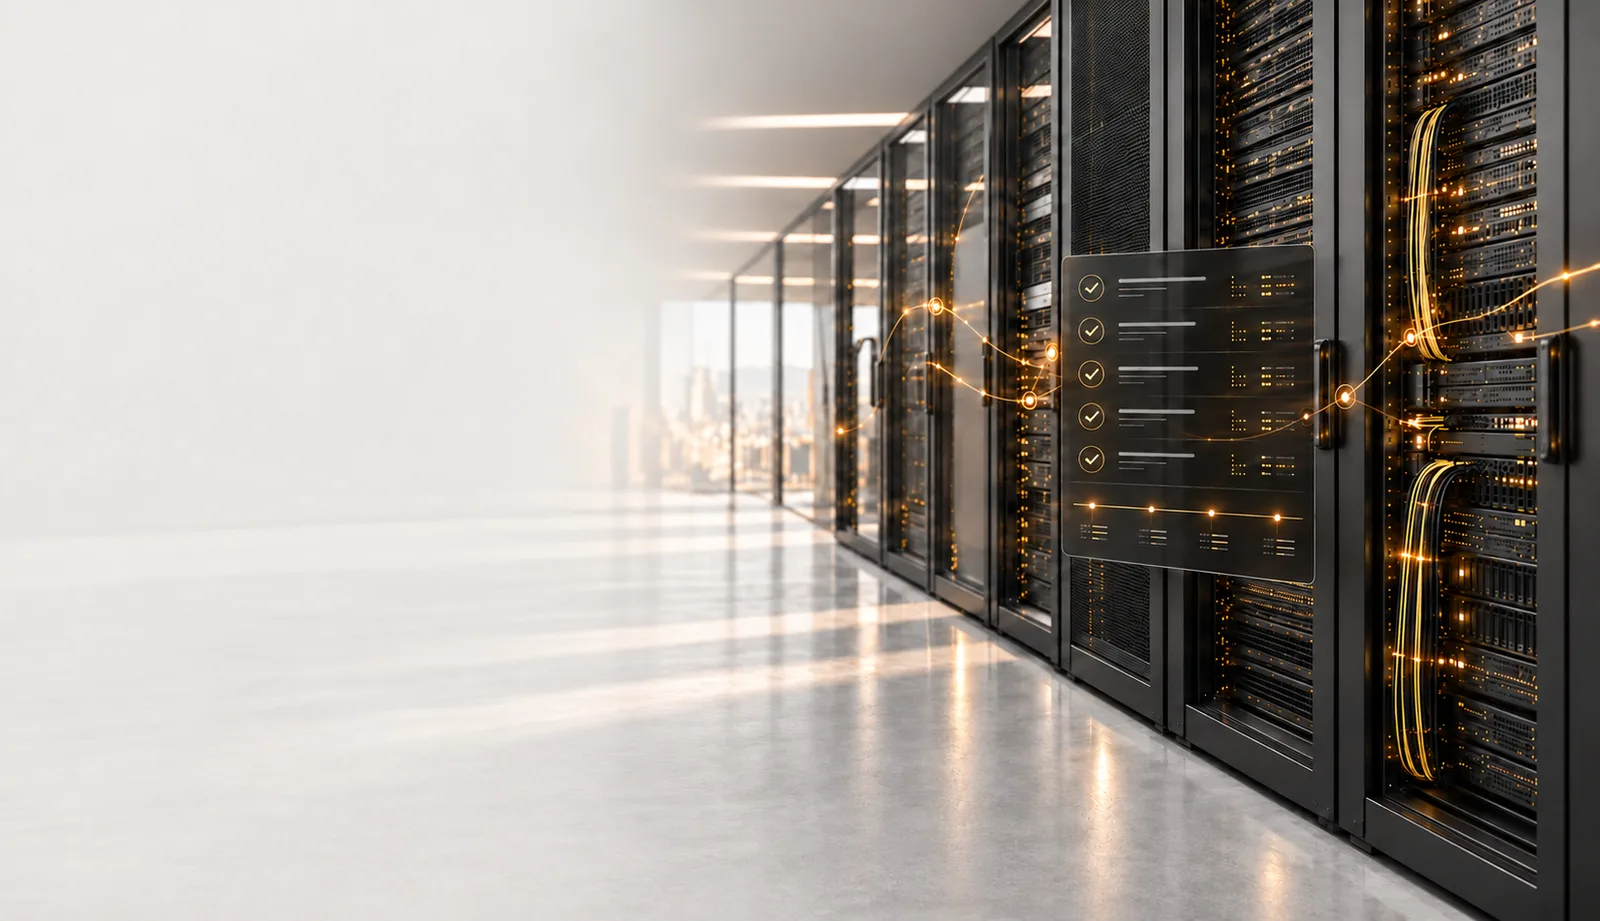
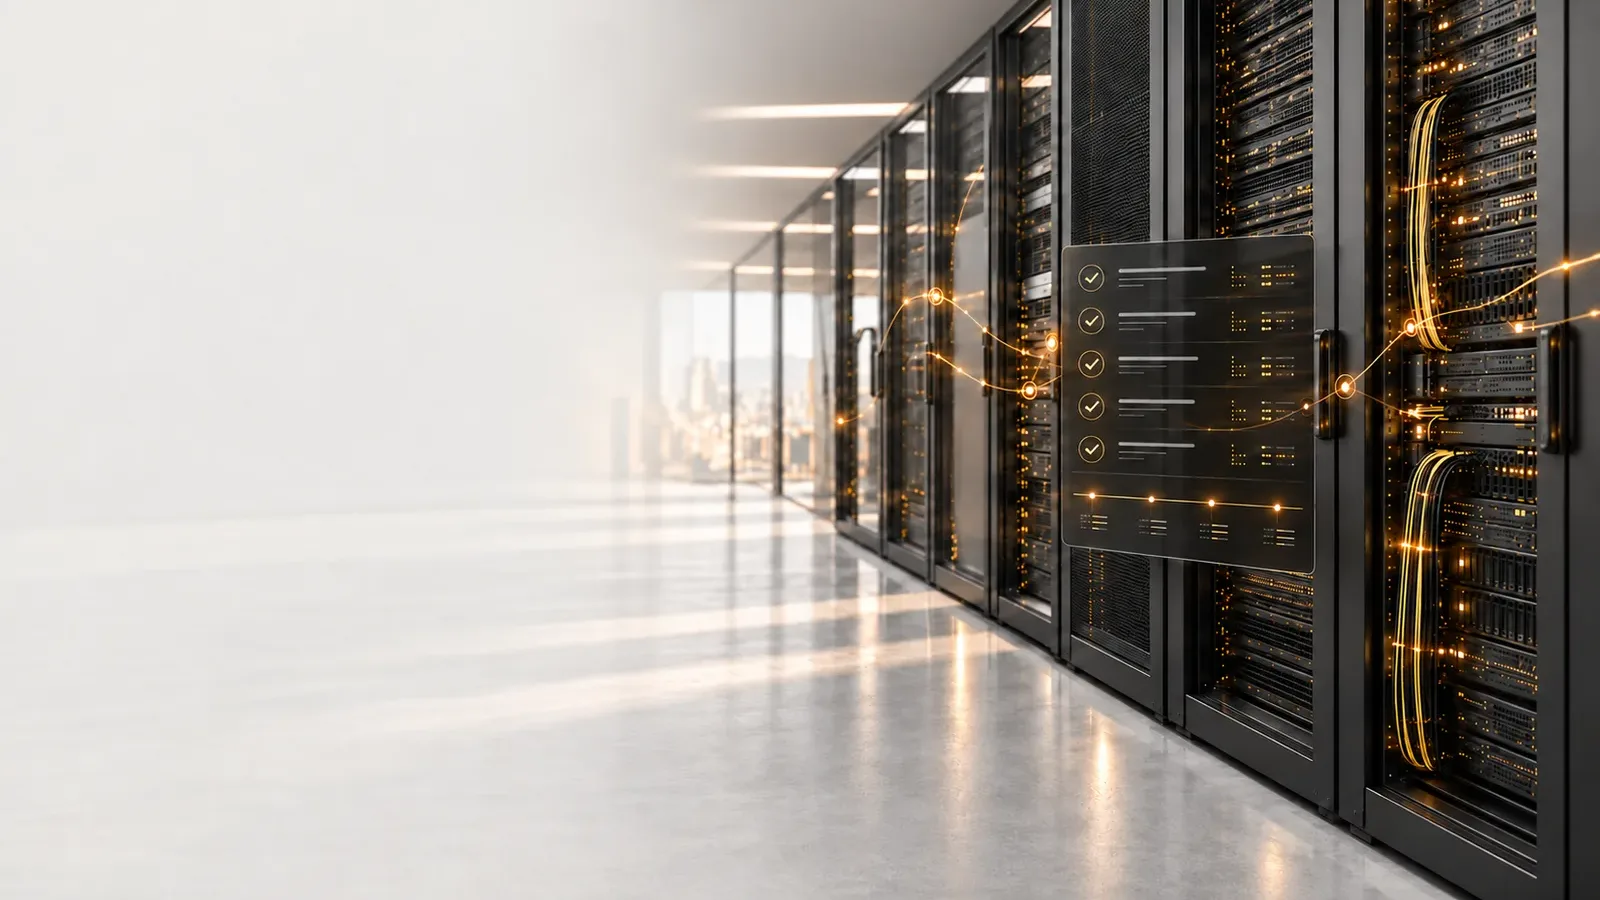
Bannières : même hauteur pour les deux diapositives, images au même format 16:9
Claude-Session: https://claude.ai/code/session_01WW9VHM8UZcUM3GTHM5HDM3

diff --git a/index.html b/index.html
@@ -32,9 +32,9 @@ nav{display:flex;justify-content:space-between;align-items:center;gap:24px;paddi
 
 /* BANNIÈRE — aucun lien, aucun bouton de navigation */
 .banner{position:relative;background:#f3f2ee;color:#111;overflow:hidden;border-bottom:1px solid var(--border)}
-.slide{display:none;position:relative;min-height:560px;background-size:cover;background-position:right center;background-repeat:no-repeat}
-.slide.is-active{display:block;animation:fade .6s ease}
-@keyframes fade{from{opacity:0}to{opacity:1}}
+.banner{display:grid}
+.slide{grid-area:1/1;visibility:hidden;opacity:0;transition:opacity .6s ease;position:relative;min-height:560px;background-size:cover;background-position:right center;background-repeat:no-repeat}
+.slide.is-active{visibility:visible;opacity:1}
 .slide-inner{max-width:var(--max);margin:0 auto;padding:64px 64px 72px;display:flex;flex-direction:column;gap:26px;min-height:560px;justify-content:center}
 .slide .t{font-family:'Outfit',sans-serif;font-weight:300;font-size:clamp(30px,4vw,52px);line-height:1.15;max-width:560px}
 .slide .t strong{font-weight:700;display:block;letter-spacing:1px}
